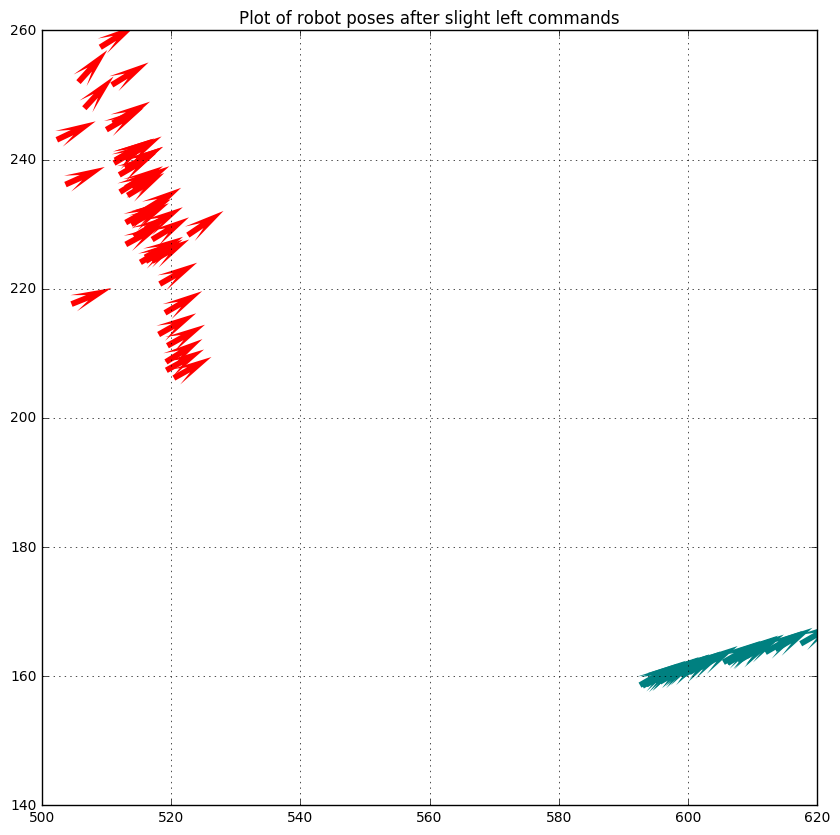
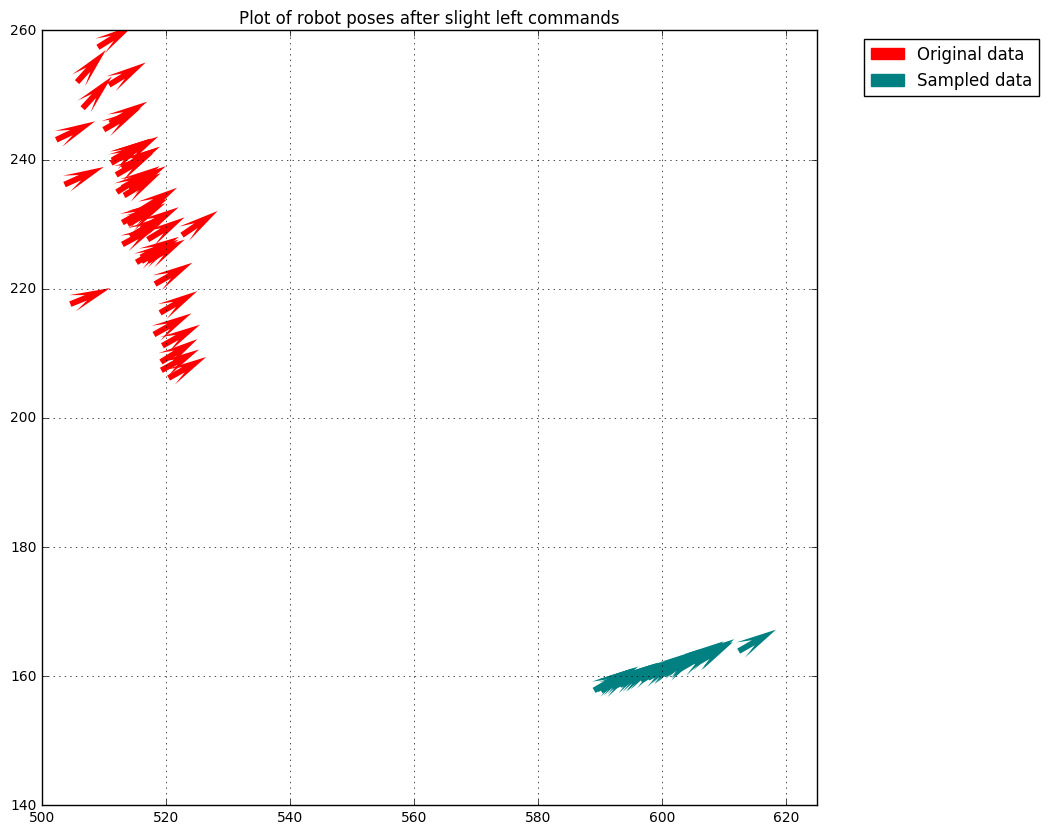
add legend to plots

diff --git a/SEE_BachHa_MinhNguyen_311016.tex b/SEE_BachHa_MinhNguyen_311016.tex
@@ -159,7 +159,7 @@
         \begin{center}
             \setlength{\fboxsep}{0.5pt} %
             \setlength{\fboxrule}{0.5pt}
-            \includegraphics[width=12cm,fbox]{images/sampled_poses_left.png}
+            \includegraphics[width=13cm,fbox]{images/sampled_poses_left.png}
             \caption{Recorded and sampled poses of the LeJOS robot going left.}
         \end{center}
     \end{figure}
@@ -168,7 +168,7 @@
     \begin{center}
         \setlength{\fboxsep}{0.5pt} %
         \setlength{\fboxrule}{0.5pt}
-        \includegraphics[width=12cm,fbox]{images/sampled_poses_right.png}
+        \includegraphics[width=13cm,fbox]{images/sampled_poses_right.png}
         \caption{Recorded and sampled poses of the LeJOS robot going right.}
     \end{center}
 \end{figure}
@@ -177,7 +177,7 @@
     \begin{center}
         \setlength{\fboxsep}{0.5pt} %
         \setlength{\fboxrule}{0.5pt}
-        \includegraphics[width=12cm,fbox]{images/sampled_poses_slightLeft.png}
+        \includegraphics[width=13cm,fbox]{images/sampled_poses_slightLeft.png}
         \caption{Recorded and sampled poses of the LeJOS robot going slightly left.}
     \end{center}
 \end{figure}
@@ -186,7 +186,7 @@
     \begin{center}
         \setlength{\fboxsep}{0.5pt} %
         \setlength{\fboxrule}{0.5pt}
-        \includegraphics[width=12cm,fbox]{images/sampled_poses_slightRight.png}
+        \includegraphics[width=13cm,fbox]{images/sampled_poses_slightRight.png}
         \caption{Recorded and sampled poses of the LeJOS robot going slightly right.}
     \end{center}
 \end{figure}
@@ -195,7 +195,7 @@
     \begin{center}
         \setlength{\fboxsep}{0.5pt} %
         \setlength{\fboxrule}{0.5pt}
-        \includegraphics[width=12cm,fbox]{images/sampled_poses_straight.png}
+        \includegraphics[width=13cm,fbox]{images/sampled_poses_straight.png}
         \caption{Recorded and sampled poses of the LeJOS robot going straight.}
     \end{center}
 \end{figure}
